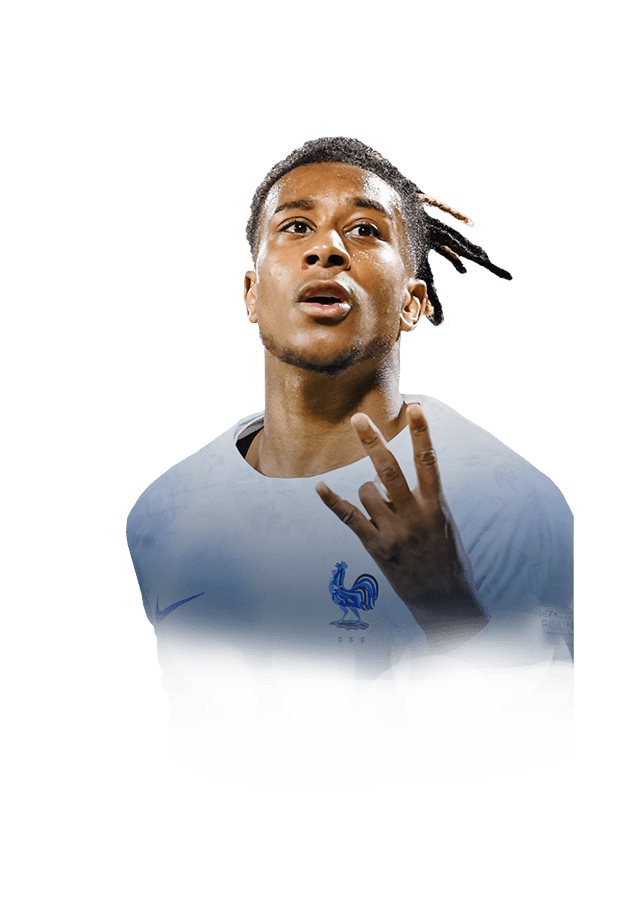
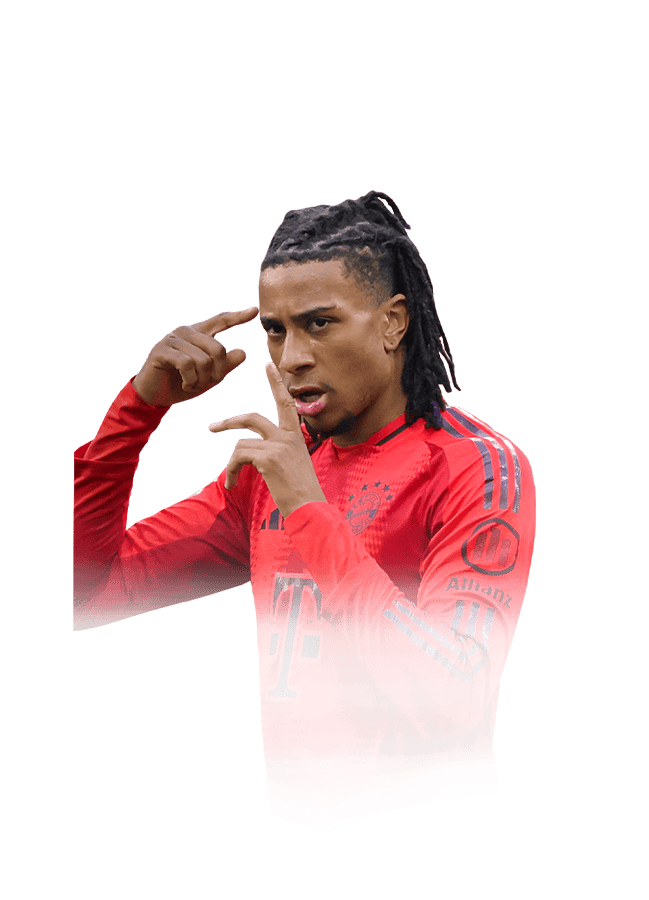
Restore Musiala and replace the white-shirt portrait with Olise

Changed region(s): [[0.0932, 0.1244, 0.9006, 0.7778]]

diff --git a/js/ui.js b/js/ui.js
@@ -39,9 +39,9 @@ function homePlayers(squadCount){
       {name:'Ronaldinho Gaúcho',src:'ronaldinho.png',head:{x:341,y:188,height:260}},
     ]},
     {className:'next',players:[
-      {name:'Michael Olise',src:'group-3-player-1.png?v=larger-home-torsos-20261021',width:649,height:900,head:{x:344,y:190,height:242}},
+      {name:'Jamal Musiala',src:'group-3-player-1.png?v=correct-olise-slot-20261021',width:485,height:673,head:{x:266,y:146,height:181}},
       {name:'Jogador com uniforme azul',src:'group-3-player-2.png',width:649,height:900,head:{x:327,y:168,height:231}},
-      {name:'Jogador com uniforme branco',src:'group-3-player-3.png',width:644,height:900,head:{x:336,y:135,height:241}},
+      {name:'Michael Olise',src:'group-3-player-3.png?v=correct-olise-slot-20261021',width:649,height:900,head:{x:344,y:190,height:242}},
       {name:'Jogador com uniforme azul e vermelho',src:'group-3-player-4.png',width:649,height:900,head:{x:351,y:208,height:206}},
     ]},
   ];

diff --git a/js/main.js b/js/main.js
@@ -7,7 +7,7 @@ import { state, MODES } from './state.js?v=champions-two-legs-20261020';
 import { FORMATIONS, TEAM_SIZE, positionFit, calculateTeam, createTournament, simulateTournament } from './engine.js?v=champions-two-legs-20261020';
 import { createDraft, drawSquad, availableSlots, movableSlots, movePick, confirmPick, migrateDraft, refreshDraftRatings } from './draft.js?v=champions-two-legs-20261020';
 import * as storage from './storage.js?v=club-only-cleanup-20261020';
-import * as ui from './ui.js?v=larger-home-torsos-20261021';
+import * as ui from './ui.js?v=correct-olise-slot-20261021';
 import {downloadResult} from './share.js?v=club-only-cleanup-20261020';
 import {initPlayerDrag} from './player-drag.js?v=club-only-cleanup-20261020';
 import {preloadPlayerPortraits} from './player-portraits.js?v=club-only-cleanup-20261020';

diff --git a/index.html b/index.html
@@ -22,6 +22,6 @@
   <div id="toast" class="toast" role="status"></div>
   <dialog id="modal" aria-labelledby="modal-title"><div id="modal-content"></div></dialog>
   <noscript><p>Ative o JavaScript para jogar ScoreFut.</p></noscript>
-  <script type="module" src="js/main.js?v=larger-home-torsos-20261021"></script>
+  <script type="module" src="js/main.js?v=correct-olise-slot-20261021"></script>
 </body>
 </html>
